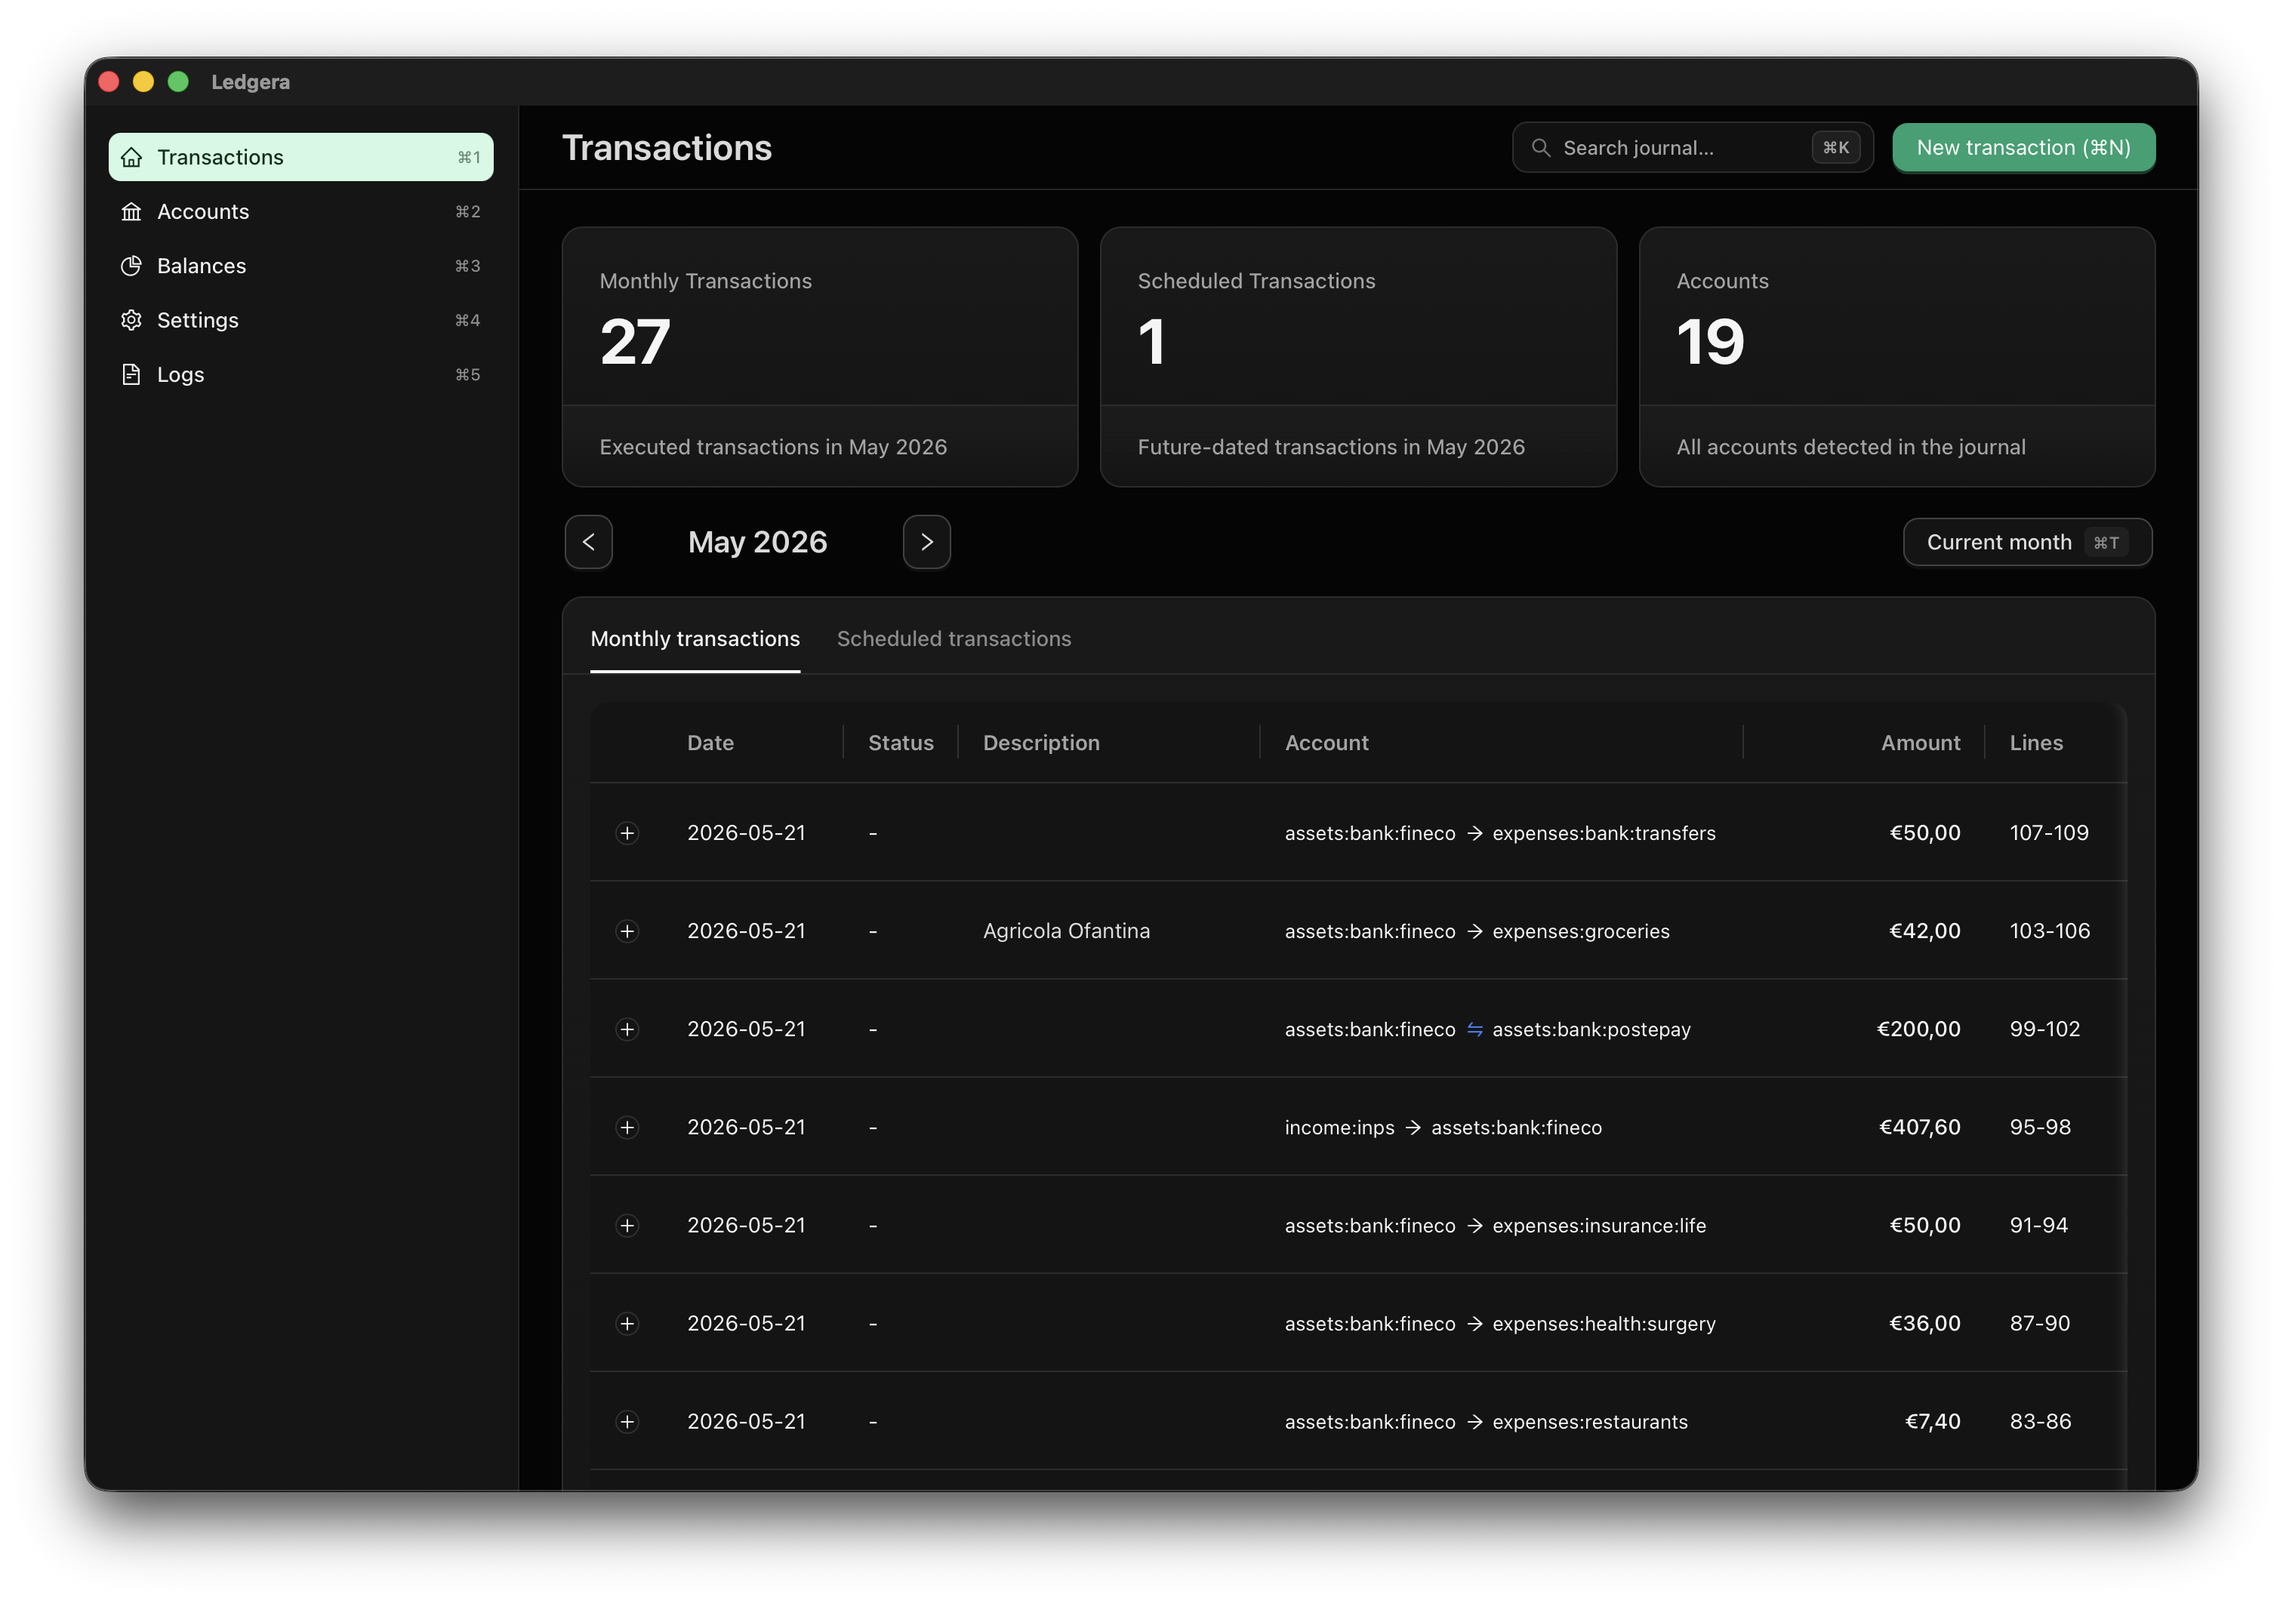
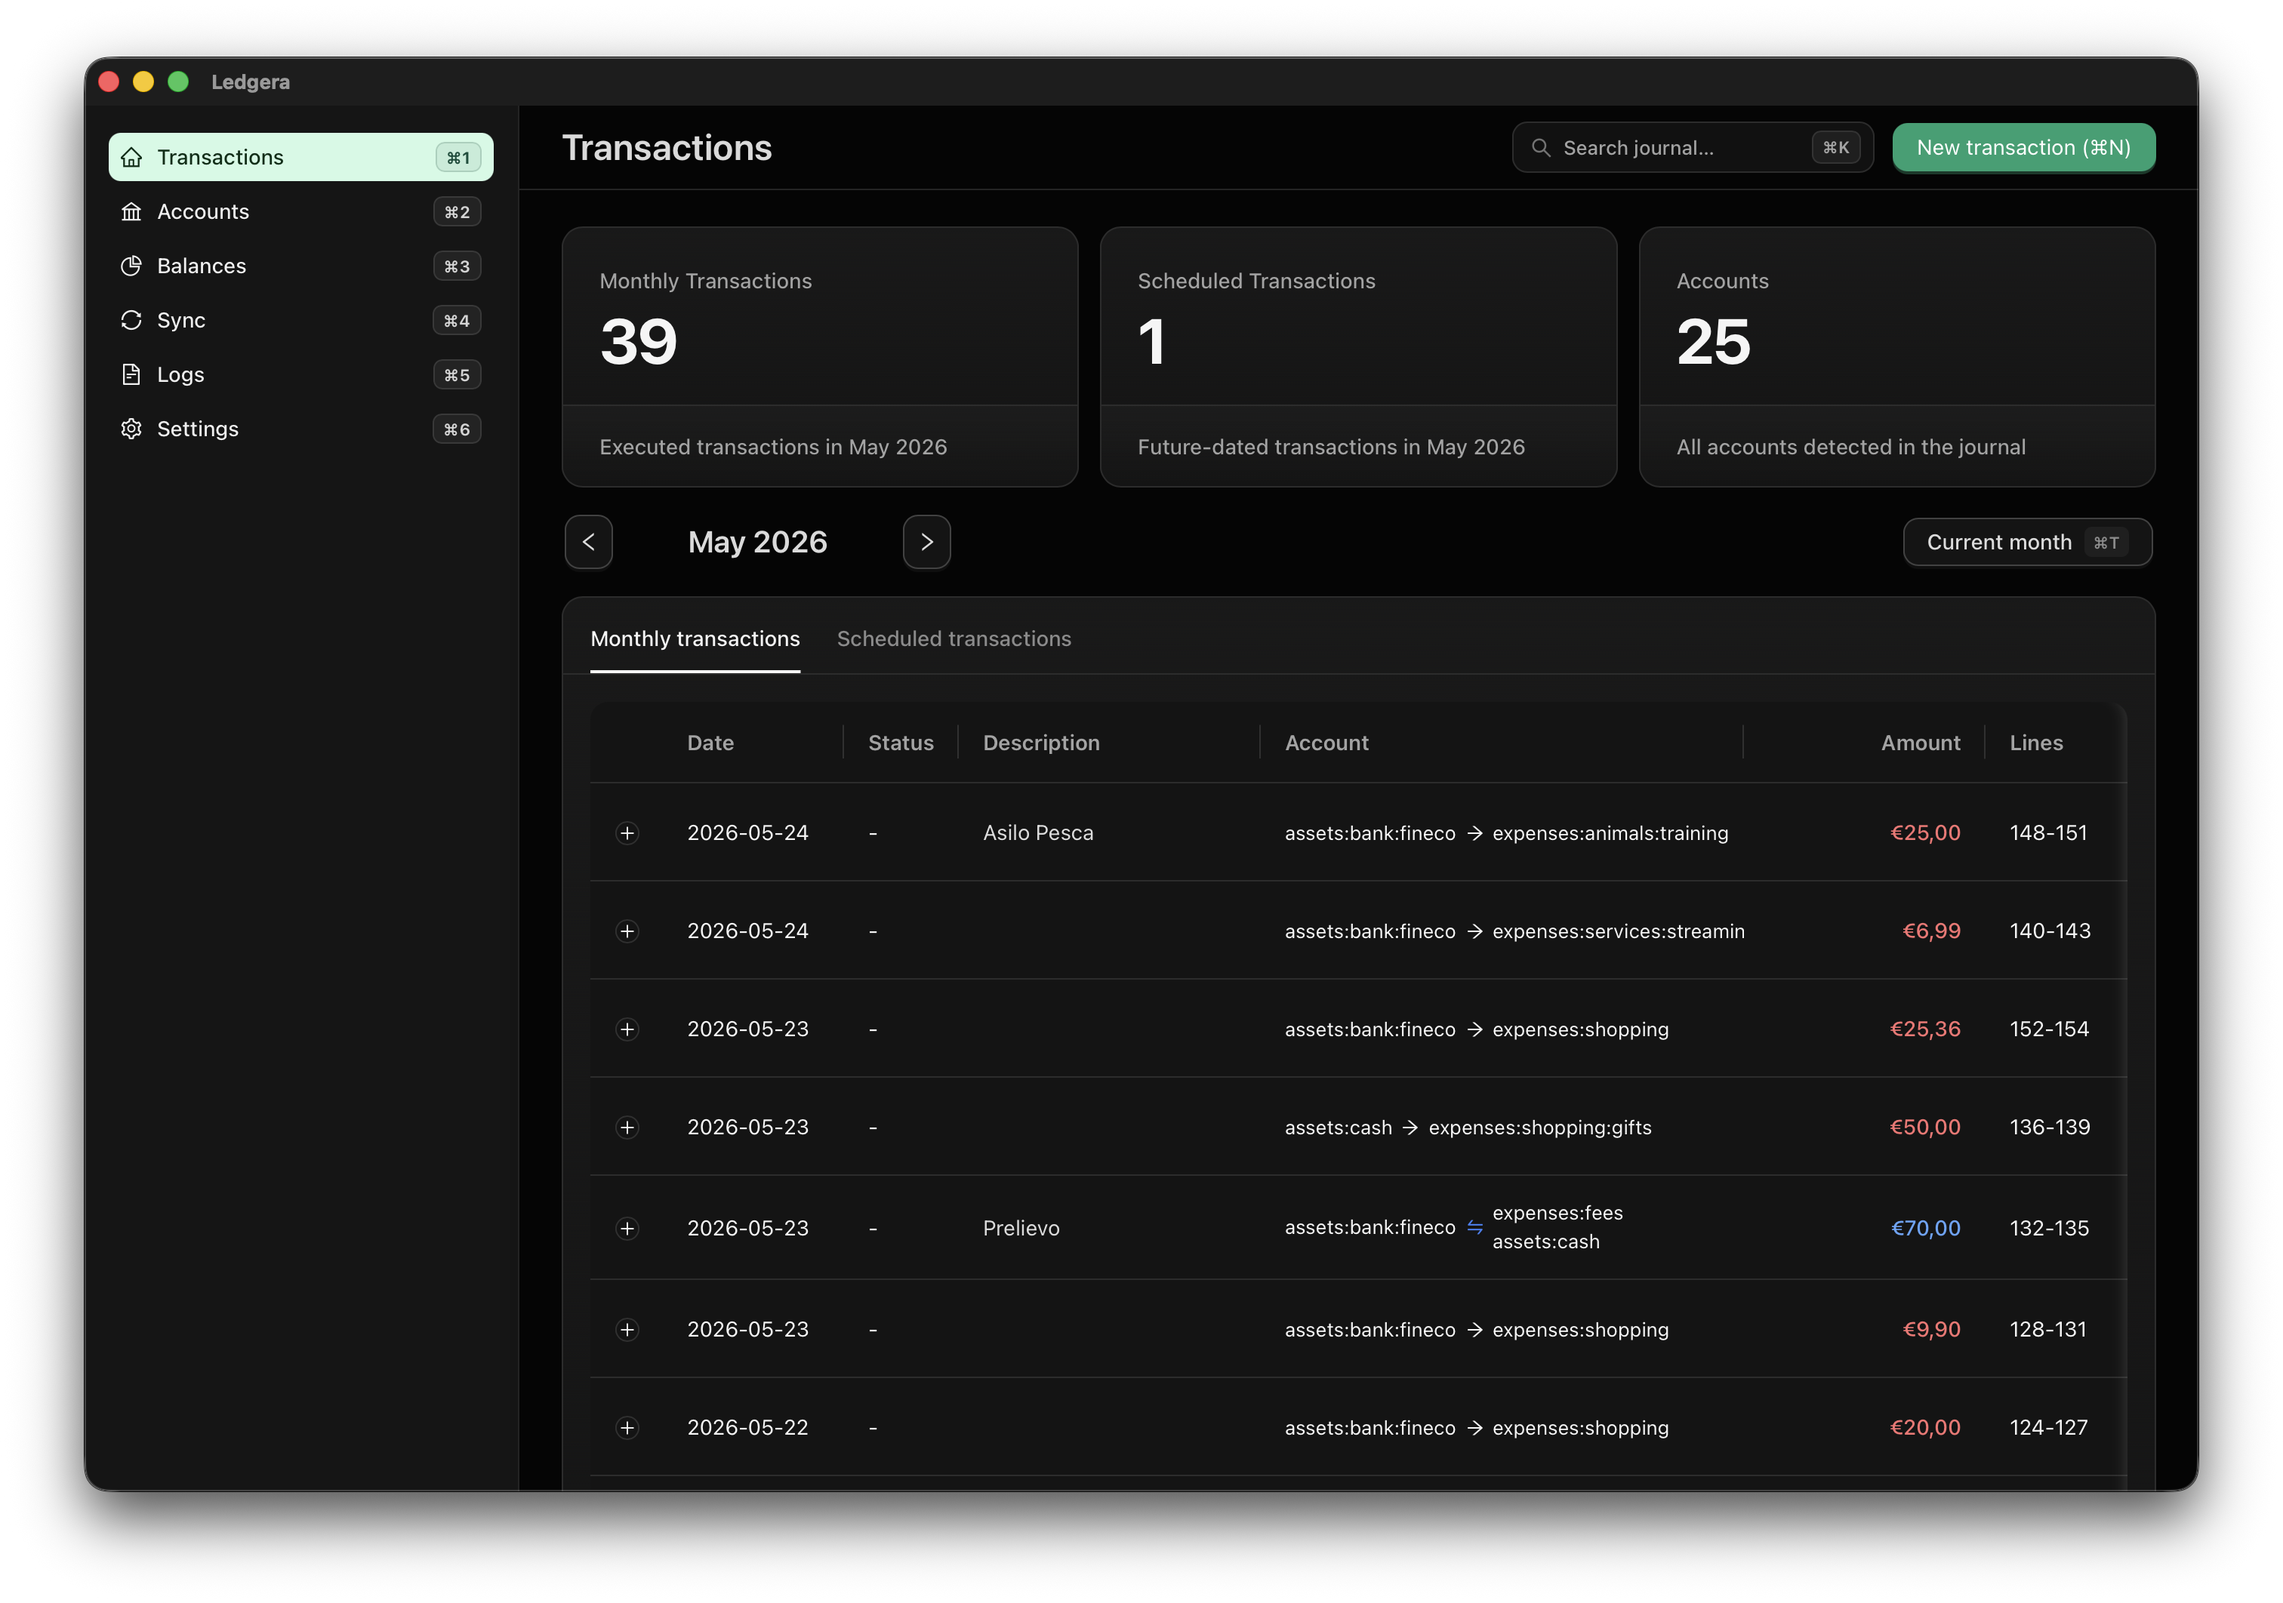
Polish sync UI and navigation shortcuts

diff --git a/src/routes/SyncRoute.tsx b/src/routes/SyncRoute.tsx
@@ -6,6 +6,34 @@ import { gitSyncSummary } from "../hooks/useGitSync";
 import { formatAppError, parseAppError } from "../utils/error";
 import styles from "./SyncRoute.module.css";
 
+type GitFileStatusMeta = {
+  labelKey: string;
+  color: string;
+};
+
+function gitFileStatusMeta(status: string): GitFileStatusMeta {
+  if (status.includes("U")) return { labelKey: "sync.file_status_conflict", color: "red" };
+
+  switch (status) {
+    case "??":
+      return { labelKey: "sync.file_status_new", color: "green" };
+    case "A":
+      return { labelKey: "sync.file_status_added", color: "green" };
+    case "M":
+      return { labelKey: "sync.file_status_modified", color: "gold" };
+    case "D":
+      return { labelKey: "sync.file_status_deleted", color: "red" };
+    case "R":
+      return { labelKey: "sync.file_status_renamed", color: "blue" };
+    case "C":
+      return { labelKey: "sync.file_status_copied", color: "cyan" };
+    case "!!":
+      return { labelKey: "sync.file_status_ignored", color: "default" };
+    default:
+      return { labelKey: "sync.file_status_changed", color: "default" };
+  }
+}
+
 export function SyncRoute({
   settings,
   status,
@@ -30,7 +58,7 @@ export function SyncRoute({
   const [commitMessage, setCommitMessage] = useState(settings.modules.gitSync.commitMessage);
   const summary = gitSyncSummary(status);
   const busy = isChecking || isPulling || isCommittingAndPushing;
-  const canPull = Boolean(status?.repoFound && !status.dirty && !busy);
+  const canPull = Boolean(status?.repoFound && status.behind > 0 && !status.dirty && !busy);
   const canCommitAndPush = Boolean(status?.repoFound && status.dirty && status.behind === 0 && !busy);
   const statusError = useMemo(() => status?.error ? parseAppError(status.error) : null, [status?.error]);
   const statusErrorHelpKey = statusError ? `sync.error_help.${statusError.code}` : "";
@@ -62,23 +90,18 @@ export function SyncRoute({
     <Space direction="vertical" size={24} className="content-stack">
       <Card title={t("sync.title")} extra={<Tag color={statusColor}>{t(summary.labelKey, summary.labelOptions)}</Tag>}>
         <Space direction="vertical" size={16} className={styles.full_width}>
-          <Typography.Paragraph type="secondary">
-            {t("sync.description")}
-          </Typography.Paragraph>
-
           {status?.error ? (
             <Alert
               type="error"
               showIcon
-              message={t("sync.status_issue")}
-              description={(
-                <Space direction="vertical" size={4}>
-                  <span>{statusErrorMessage}</span>
-                  {hasStatusErrorHelp ? <Typography.Text type="secondary">{statusErrorHelp}</Typography.Text> : null}
-                </Space>
-              )}
+              message={statusErrorMessage}
+              description={hasStatusErrorHelp ? statusErrorHelp : undefined}
             />
-          ) : null}
+          ) : (
+            <Typography.Paragraph type="secondary">
+              {t("sync.description")}
+            </Typography.Paragraph>
+          )}
           {!status ? <Alert type="info" showIcon message={t("sync.status_unknown")} description={t("sync.status_unknown_help")} /> : null}
 
           <div className={styles.stats_grid}>
@@ -109,14 +132,20 @@ export function SyncRoute({
                 className={styles.file_list}
                 size="small"
                 dataSource={status.files}
-                renderItem={(file) => (
-                  <List.Item>
-                    <Space>
-                      <Tag>{file.status}</Tag>
-                      <Typography.Text code>{file.path}</Typography.Text>
-                    </Space>
-                  </List.Item>
-                )}
+                renderItem={(file) => {
+                  const fileStatus = gitFileStatusMeta(file.status);
+
+                  return (
+                    <List.Item>
+                      <Space>
+                        <Tag color={fileStatus.color} title={t("sync.file_status_raw", { status: file.status })}>
+                          {t(fileStatus.labelKey)}
+                        </Tag>
+                        <Typography.Text code>{file.path}</Typography.Text>
+                      </Space>
+                    </List.Item>
+                  );
+                }}
               />
             ) : (
               <Typography.Paragraph type="secondary">{t("sync.no_changes")}</Typography.Paragraph>

diff --git a/src/App.tsx b/src/App.tsx
@@ -37,7 +37,7 @@ import type {
   NavigationItem,
 } from "./types";
 
-import { gitSyncShortcut, navShortcut } from "./utils/shortcut";
+import { navShortcut } from "./utils/shortcut";
 import { callCommand } from "./utils/command";
 import { resolveLanguagePreference } from "./utils/language";
 import { useUpdateStatus } from "./hooks/useUpdateStatus";
@@ -166,19 +166,22 @@ function App() {
 
   const shortcuts = useMemo(() => {
     const hasJournal = Boolean(activeSettings.journalPath.trim());
+    const logsIndex = activeSettings.modules.gitSync.enabled ? 5 : 4;
+    const settingsIndex = 4 + Number(activeSettings.modules.gitSync.enabled) + Number(activeSettings.powerUser);
+
     return [
       { keys: "command+n, ctrl+n", action: () => { if (!shouldShowCourtesy) openCreateTransaction(); } },
       { keys: "command+1, ctrl+1", action: () => setActiveView("transactions"), disabled: !hasJournal },
       { keys: "command+2, ctrl+2", action: () => setActiveView("accounts"), disabled: !hasJournal },
       { keys: "command+3, ctrl+3", action: () => setActiveView("balances"), disabled: !hasJournal },
-      { keys: "command+4, ctrl+4", action: () => setActiveView("settings") },
-      { keys: "command+5, ctrl+5", action: () => setActiveView("logs"), disabled: !activeSettings.powerUser },
+      { keys: "command+4, ctrl+4", action: () => setActiveView("sync"), disabled: !hasJournal || !activeSettings.modules.gitSync.enabled },
+      { keys: `command+${logsIndex}, ctrl+${logsIndex}`, action: () => setActiveView("logs"), disabled: !activeSettings.powerUser },
       { keys: "command+shift+g, ctrl+shift+g", action: () => { if (activeView === "sync") refreshGitSyncStatus(); else setActiveView("sync"); }, disabled: !gitSyncEnabled },
-      { keys: "command+,, ctrl+,", action: () => setActiveView("settings") },
+      { keys: `command+${settingsIndex}, ctrl+${settingsIndex}`, action: () => setActiveView("settings") },
       { keys: "command+k, ctrl+k", action: () => setSpotlightOpen(true) },
       { keys: "escape", action: () => { if (spotlightOpen) setSpotlightOpen(false); else if (isTransactionModalOpen) closeTransactionModalWithCleanup(); } },
     ];
-  }, [activeSettings.journalPath, activeSettings.powerUser, shouldShowCourtesy, isTransactionModalOpen, spotlightOpen, closeTransactionModalWithCleanup, activeView, gitSyncEnabled, refreshGitSyncStatus]);
+  }, [activeSettings.journalPath, activeSettings.modules.gitSync.enabled, activeSettings.powerUser, shouldShowCourtesy, isTransactionModalOpen, spotlightOpen, closeTransactionModalWithCleanup, activeView, gitSyncEnabled, refreshGitSyncStatus]);
 
   useHotkeys(shortcuts);
 
@@ -191,7 +194,6 @@ function App() {
         { key: "transactions", label: "common.transactions", icon: <HomeOutlined />, disabled: !hasJournal, shortcut: navShortcut(1) },
         { key: "accounts", label: "common.accounts", icon: <BankOutlined />, disabled: !hasJournal, shortcut: navShortcut(2) },
         { key: "balances", label: "common.balances", icon: <PieChartOutlined />, disabled: !hasJournal, shortcut: navShortcut(3) },
-        { key: "settings", label: "common.settings", icon: <SettingOutlined />, shortcut: navShortcut(4), badge: updateStatus?.available ? t("settings.update_badge") : undefined },
       ];
 
       if (activeSettings.modules.gitSync.enabled) {
@@ -207,15 +209,25 @@ function App() {
           label: "common.sync",
           icon: <SyncOutlined />,
           disabled: !hasJournal,
-          shortcut: gitSyncShortcut(),
+          shortcut: navShortcut(4),
           badge: syncBadge,
           badgeTone: summary.tone === "danger" ? "danger" : "warning",
         });
       }
 
       if (activeSettings.powerUser) {
-        items.push({ key: "logs", label: "logs.title", icon: <FileTextOutlined />, shortcut: navShortcut(5) });
+        const logsIndex = activeSettings.modules.gitSync.enabled ? 5 : 4;
+        items.push({ key: "logs", label: "logs.title", icon: <FileTextOutlined />, shortcut: navShortcut(logsIndex) });
       }
+
+      const settingsIndex = items.length + 1;
+      items.push({
+        key: "settings",
+        label: "common.settings",
+        icon: <SettingOutlined />,
+        shortcut: navShortcut(settingsIndex),
+        badge: updateStatus?.available ? t("settings.update_badge") : undefined,
+      });
 
       return items;
     },

diff --git a/src/components/NavigationGroup.module.css b/src/components/NavigationGroup.module.css
@@ -79,15 +79,32 @@
 }
 
 .nav_shortcut {
+    display: inline-flex;
+    align-items: center;
+    justify-content: center;
+    min-width: 28px;
+    height: 20px;
     margin-left: auto;
+    padding: 0 6px;
+    color: #d4d4d4;
     font-size: 11px;
-    font-weight: 500;
-    opacity: 0.55;
+    font-weight: 650;
+    line-height: 1;
     letter-spacing: 0.02em;
+    background: rgba(255, 255, 255, 0.06);
+    border: 1px solid rgba(255, 255, 255, 0.1);
+    border-radius: 6px;
 }
 
 .nav_badge + .nav_shortcut {
     margin-left: 0;
+}
+
+.nav_item:hover:not(:disabled) .nav_shortcut,
+.nav_item.is_active .nav_shortcut {
+    color: #064e3b;
+    background: rgba(6, 78, 59, 0.08);
+    border-color: rgba(6, 78, 59, 0.18);
 }
 
 :global(.theme-light) .nav_item {
@@ -103,4 +120,10 @@
 :global(.theme-light) .nav_item.is_disabled:hover {
     color: #374151;
     background: transparent;
+}
+
+:global(.theme-light) .nav_shortcut {
+    color: #4b5563;
+    background: rgba(17, 24, 39, 0.04);
+    border-color: rgba(17, 24, 39, 0.1);
 }

diff --git a/src/hooks/useHotkeys.ts b/src/hooks/useHotkeys.ts
@@ -15,17 +15,11 @@ export function useHotkeys(shortcuts: Shortcut[]) {
     // Allow hotkeys everywhere, including inside form fields
     hotkeys.filter = () => true;
 
-    for (const { keys, disabled } of shortcutsRef.current) {
-      if (!disabled) {
-        hotkeys(keys, (event, handler) => {
-          const current = shortcutsRef.current.find((s) => {
-            const comboKeys = s.keys.split(",").map((k) => k.trim());
-            return !s.disabled && comboKeys.includes(handler.key);
-          });
-          if (current) {
-            event.preventDefault();
-            current.action(event, handler);
-          }
+    for (const shortcut of shortcutsRef.current) {
+      if (!shortcut.disabled) {
+        hotkeys(shortcut.keys, (event, handler) => {
+          event.preventDefault();
+          shortcut.action(event, handler);
         });
       }
     }

diff --git a/src-tauri/src/sync.rs b/src-tauri/src/sync.rs
@@ -323,6 +323,10 @@ fn run_git(cwd: &Path, args: &[&str]) -> Result<GitOutput, String> {
     let output = Command::new("git")
         .args(args)
         .current_dir(cwd)
+        .env("GIT_TERMINAL_PROMPT", "0")
+        .env("GIT_ASKPASS", "true")
+        .env("GCM_INTERACTIVE", "never")
+        .env("GIT_SSH_COMMAND", "ssh -o BatchMode=yes")
         .output()
         .map_err(|error| {
             to_error_string_with_details(
